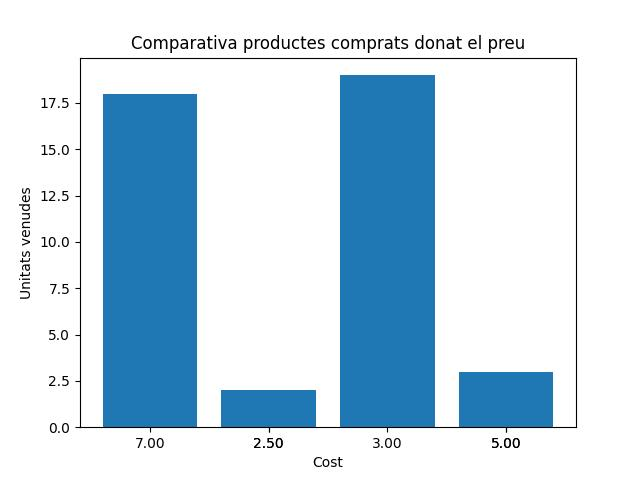
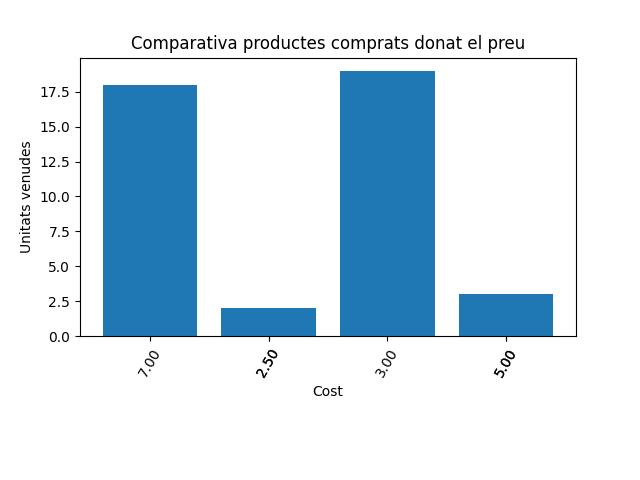
millorarGrafics

diff --git a/Mo10/produirInfo.py b/Mo10/produirInfo.py
@@ -23,10 +23,11 @@ def VentaProductes (info2): #comparacio venta productes json=productes
     plt.title('Comparativa productes comprats')
     ax = plt.subplot()                   
     ax.set_xticks(x_values)             
-    ax.set_xticklabels(x_values)       
-    ax.set_xlabel('Producte')  
+    ax.set_xticklabels(x_values, rotation=60)       
+    ax.set_xlabel('Producte') 
     ax.set_ylabel('Quantitat venuda') 
     nom=('VentaProductes'+str(date.today()))
+    plt.subplots_adjust(wspace=2, bottom=0.5)
     plt.savefig('../Mo10/grafics/'+nom+'.jpeg')
     plt.close('all')
 
@@ -38,10 +39,11 @@ def VentaPreu (info2): #comparacio venta preu json=productes
     plt.title('Comparativa productes comprats donat el preu')
     ax = plt.subplot()                   
     ax.set_xticks(x_values)             
-    ax.set_xticklabels(x_values)       
+    ax.set_xticklabels(x_values, rotation=60)       
     ax.set_ylabel('Unitats venudes')  
     ax.set_xlabel('Cost') 
     nom=('VentaPreu'+str(date.today()))
+    plt.subplots_adjust(wspace=2, bottom=0.5)
     plt.savefig('../Mo10/grafics/'+nom+'.jpeg')
     plt.close('all')
 
@@ -53,10 +55,11 @@ def TipusProducte (info2): #comparacio tipus producte json=productes
     plt.title('Comparativa productes comprats')
     ax = plt.subplot()                   
     ax.set_xticks(x_values)             
-    ax.set_xticklabels(x_values)       
+    ax.set_xticklabels(x_values, rotation=60)       
     ax.set_xlabel('Producte')  
     ax.set_ylabel('Quantitat venuda') 
     nom=('TipusProducte'+str(date.today()))
+    plt.subplots_adjust(wspace=2, bottom=0.5)
     plt.savefig('../Mo10/grafics/'+nom+'.jpeg')
     plt.close('all')
 
@@ -68,10 +71,11 @@ def EstatCommandas (info2): #comprobacio estats actuals de comandes json=comande
     plt.title('Estat actual de les comandes')
     ax = plt.subplot()                   
     ax.set_xticks(x_values)             
-    ax.set_xticklabels(x_values)       
+    ax.set_xticklabels(x_values, rotation=60)       
     ax.set_xlabel('Estat actual')  
     ax.set_ylabel('Quantitat')
     nom=('EstatProductes'+str(date.today()))
+    plt.subplots_adjust(wspace=2, bottom=0.5)
     plt.savefig('../Mo10/grafics/'+nom+'.jpeg')
     plt.close('all')
 
